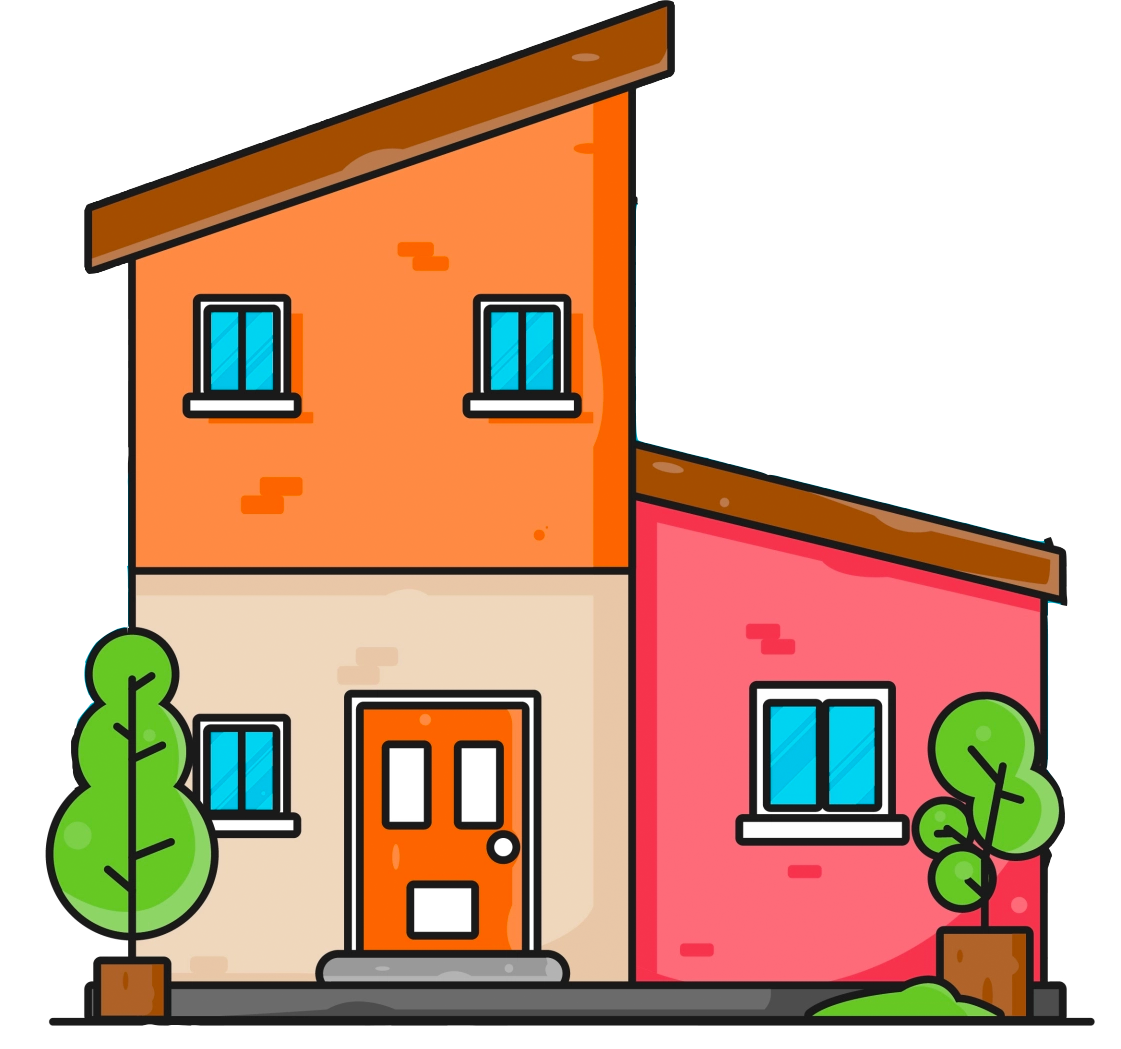
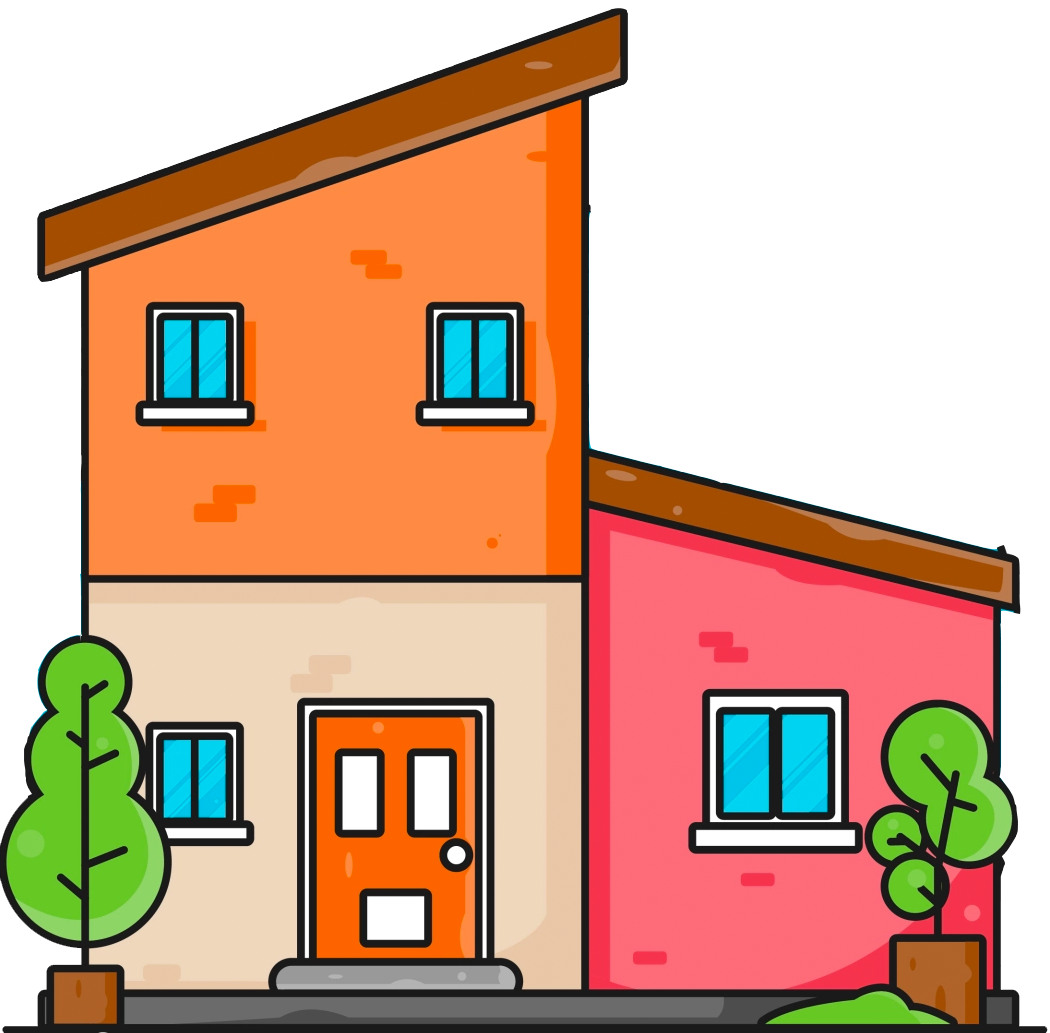
modify house image

diff --git a/grow-home-app/src/components/radial-progress.js b/grow-home-app/src/components/radial-progress.js
@@ -38,10 +38,10 @@ function CircularProgressWithLabel(props) {
               <img width="70%" src={House2} alt=""/>
           }
           {props.value === 75 &&
-              <img width="60%" src={House3} alt=""/>
+              <img width="70%" src={House3} alt=""/>
           }
           {props.value === 100 &&
-              <img width="60%" src={House4} alt=""/>
+              <img width="70%" src={House4} alt=""/>
           }
       </Box>
     </Box>

diff --git a/grow-home-app/src/pages/DashboardAppPage.js b/grow-home-app/src/pages/DashboardAppPage.js
@@ -3,7 +3,7 @@ import { faker } from '@faker-js/faker';
 import React from 'react';
 // @mui
 import { useTheme } from '@mui/material/styles';
-import {Grid, Container, Typography, Box} from '@mui/material';
+import {Grid, Container, Box} from '@mui/material';
 // components
 import Iconify from '../components/iconify';
 // sections
